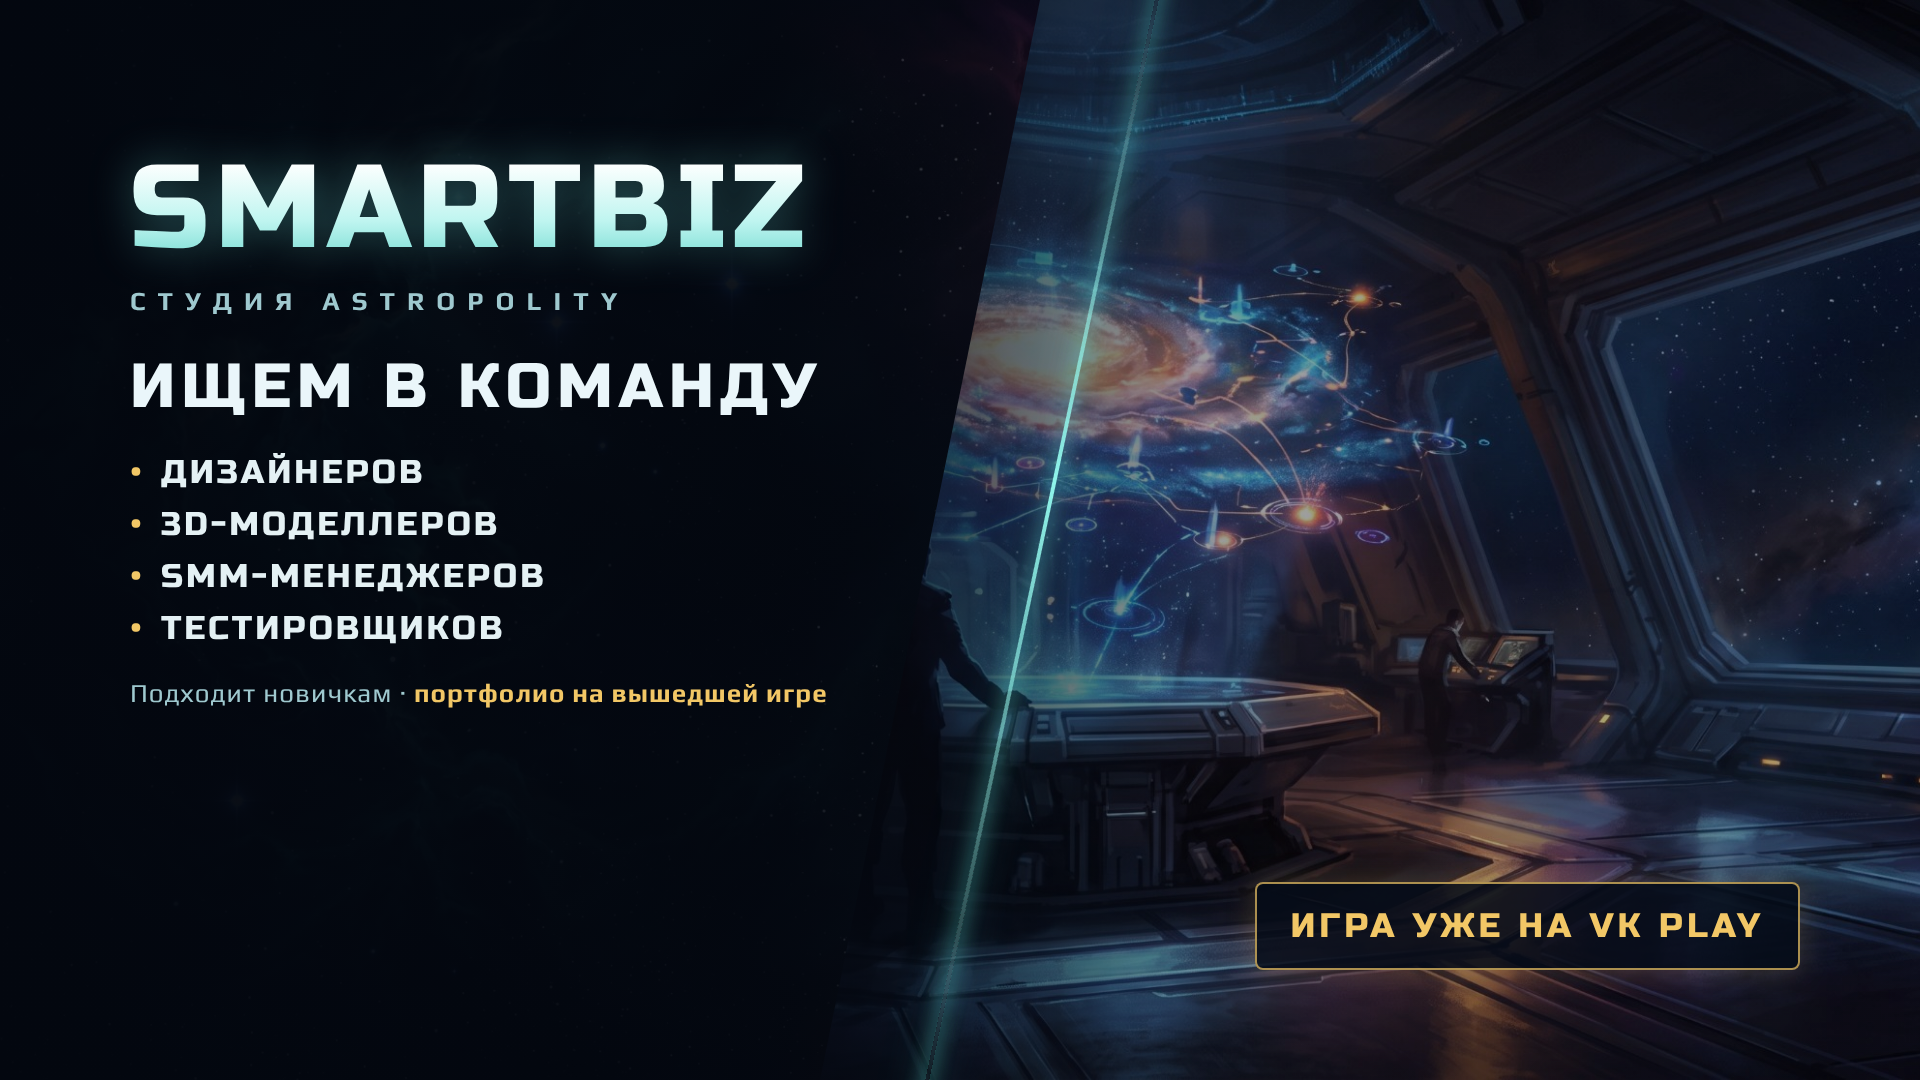
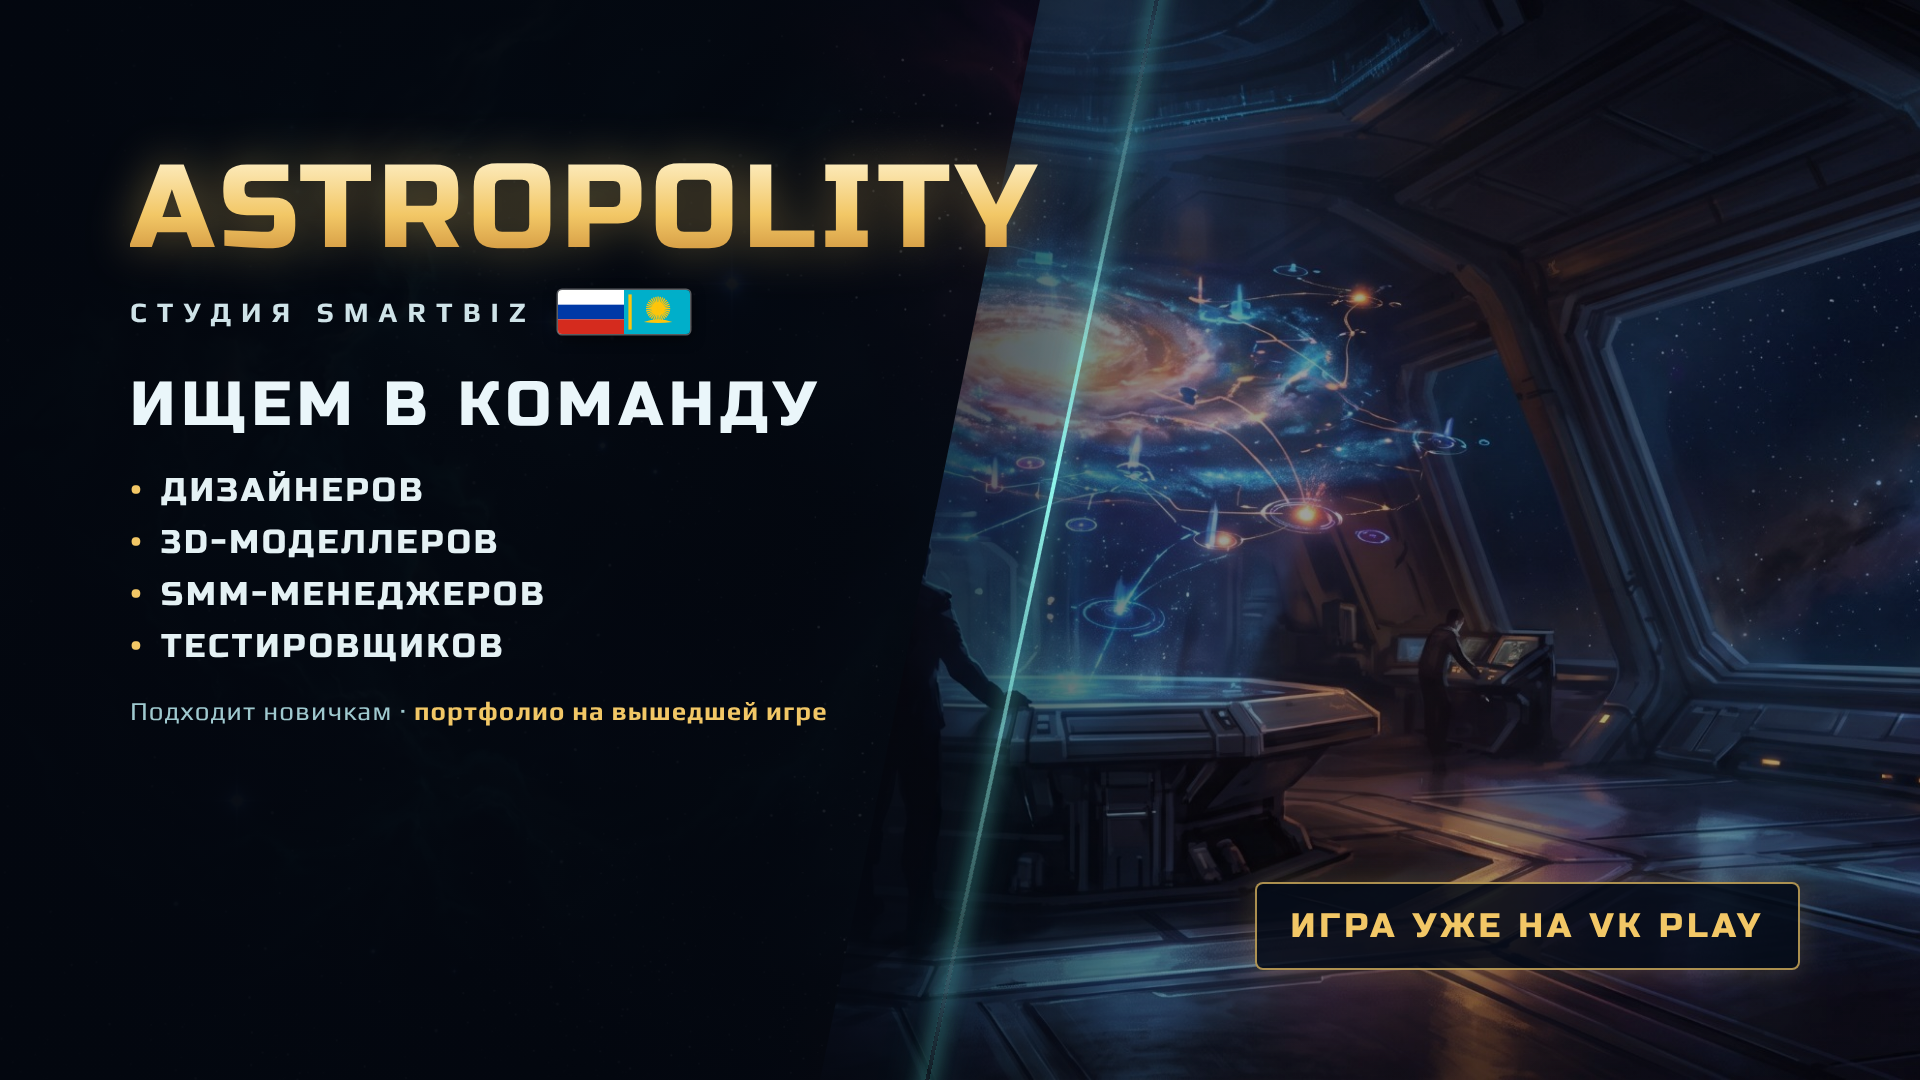
Обложка вакансий: Astropolity золотом, под ним «Студия SmartBiz» и флаги России и Казахстана
Claude-Session: https://claude.ai/code/session_01MBQ4JGpUh1c6nHPDeTgt1b

Changed region(s): [[0.0625, 0.1222, 0.5625, 0.3972], [0.0625, 0.4278, 0.2812, 0.6111], [0.0625, 0.6417, 0.4375, 0.6722]]

diff --git a/Tools/news/hiring.html b/Tools/news/hiring.html
@@ -16,8 +16,12 @@ body { width: 1920px; height: 1080px; overflow: hidden; background: #03070F; fon
   box-shadow: 0 0 18px #5FE6DA, 0 0 40px rgba(95,230,218,0.6); transform: skewX(-12deg); }
 .left { position: absolute; left: 130px; top: 150px; }
 .logo { font-family: Russo; font-size: 118px; letter-spacing: 6px; line-height: 1;
-  background: linear-gradient(180deg, #FFFFFF 10%, #BFF5F0 60%, #6FD8CF 100%); -webkit-background-clip: text; color: transparent;
-  filter: drop-shadow(0 0 22px rgba(102,219,209,0.35)); }
+  background: linear-gradient(180deg, #FFF3CF 0%, #F2C766 55%, #C98A35 100%); -webkit-background-clip: text; color: transparent;
+  filter: drop-shadow(0 0 24px rgba(242,199,102,0.4)); }
+.studio { display: flex; align-items: center; gap: 22px; margin-top: 22px; }
+.studio span { font-weight: 700; font-size: 28px; letter-spacing: 10px; color: #CFE3E8; }
+.flags { display: flex; gap: 0; border-radius: 4px; overflow: hidden; box-shadow: 0 0 0 1.5px rgba(255,255,255,0.35), 0 4px 14px rgba(0,0,0,0.6); }
+.flags svg { display: block; width: 66px; height: 44px; }
 .kicker { font-weight: 700; font-size: 26px; letter-spacing: 12px; color: #9FC9CF; margin-top: 18px; }
 .ver { font-family: Russo; font-size: 62px; letter-spacing: 6px; margin-top: 34px; }
 .list { margin-top: 28px; display: flex; flex-direction: column; gap: 12px; }
@@ -31,8 +35,16 @@ body { width: 1920px; height: 1080px; overflow: hidden; background: #03070F; fon
 <body><div id="cover">
   <div class="space"></div><div class="art"></div><div class="fade"></div><div class="slash"></div>
   <div class="left">
-    <div class="logo">SMARTBIZ</div>
-    <div class="kicker">СТУДИЯ ASTROPOLITY</div>
+    <div class="logo">ASTROPOLITY</div>
+    <div class="studio"><span>СТУДИЯ SMARTBIZ</span>
+      <div class="flags">
+        <svg viewBox="0 0 3 2"><rect width="3" height="2" fill="#fff"/><rect y="0.667" width="3" height="0.667" fill="#0039A6"/><rect y="1.333" width="3" height="0.667" fill="#D52B1E"/></svg>
+        <svg viewBox="0 0 60 40"><rect width="60" height="40" fill="#00AFCA"/>
+          <g fill="#FEC50C"><circle cx="31" cy="17" r="6"/>
+            <g stroke="#FEC50C" stroke-width="1.2"><line x1="31" y1="17" x2="42.0" y2="17.0"/><line x1="31" y1="17" x2="41.8" y2="19.1"/><line x1="31" y1="17" x2="41.2" y2="21.2"/><line x1="31" y1="17" x2="40.1" y2="23.1"/><line x1="31" y1="17" x2="38.8" y2="24.8"/><line x1="31" y1="17" x2="37.1" y2="26.1"/><line x1="31" y1="17" x2="35.2" y2="27.2"/><line x1="31" y1="17" x2="33.1" y2="27.8"/><line x1="31" y1="17" x2="31.0" y2="28.0"/><line x1="31" y1="17" x2="28.9" y2="27.8"/><line x1="31" y1="17" x2="26.8" y2="27.2"/><line x1="31" y1="17" x2="24.9" y2="26.1"/><line x1="31" y1="17" x2="23.2" y2="24.8"/><line x1="31" y1="17" x2="21.9" y2="23.1"/><line x1="31" y1="17" x2="20.8" y2="21.2"/><line x1="31" y1="17" x2="20.2" y2="19.1"/><line x1="31" y1="17" x2="20.0" y2="17.0"/><line x1="31" y1="17" x2="20.2" y2="14.9"/><line x1="31" y1="17" x2="20.8" y2="12.8"/><line x1="31" y1="17" x2="21.9" y2="10.9"/><line x1="31" y1="17" x2="23.2" y2="9.2"/><line x1="31" y1="17" x2="24.9" y2="7.9"/><line x1="31" y1="17" x2="26.8" y2="6.8"/><line x1="31" y1="17" x2="28.9" y2="6.2"/><line x1="31" y1="17" x2="31.0" y2="6.0"/><line x1="31" y1="17" x2="33.1" y2="6.2"/><line x1="31" y1="17" x2="35.2" y2="6.8"/><line x1="31" y1="17" x2="37.1" y2="7.9"/><line x1="31" y1="17" x2="38.8" y2="9.2"/><line x1="31" y1="17" x2="40.1" y2="10.9"/><line x1="31" y1="17" x2="41.2" y2="12.8"/><line x1="31" y1="17" x2="41.8" y2="14.9"/></g>
+            <path d="M18 29 q13 -5 26 0 q-13 2 -26 0z"/>
+            <rect x="4" y="4" width="3" height="32"/></g></svg>
+      </div></div>
     <div class="ver">ИЩЕМ В КОМАНДУ</div>
     <div class="list">
       <div>ДИЗАЙНЕРОВ</div>
